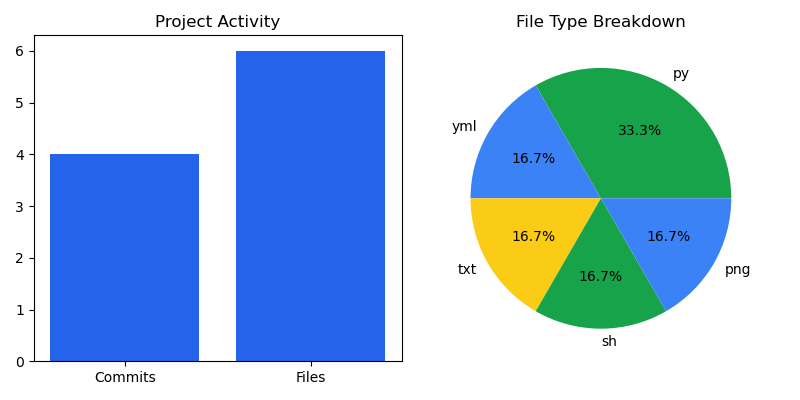
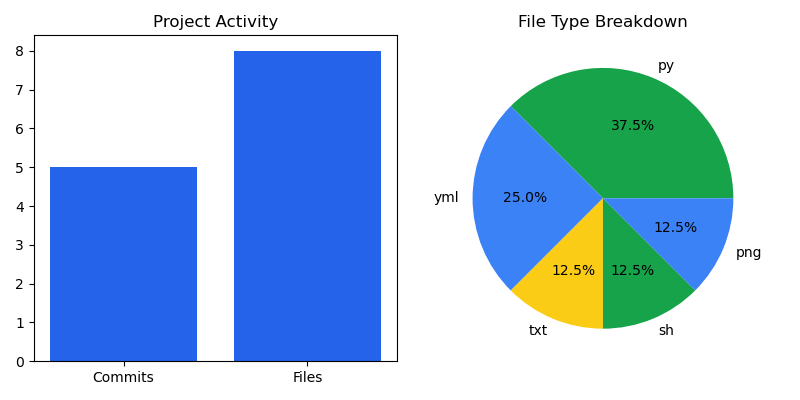
add unit test for pulse_tools

diff --git a/test_pulse_tools.py b/test_pulse_tools.py
@@ -1,0 +1,5 @@
+#!#!/usr/bin/python3
+from pulse_tools import read_pulse_file
+
+def test_read_pulse_file():
+    assert read_pulse_file("pulse.txt") >= 7

diff --git a/pulse_tools.py b/pulse_tools.py
@@ -1,0 +1,5 @@
+#!#!/usr/bin/python3
+
+def read_pulse_file(path="pulse.txt"):
+    lines = open(path).read().splitlines()
+    return len(lines)
